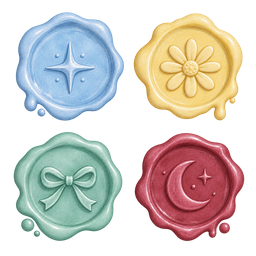
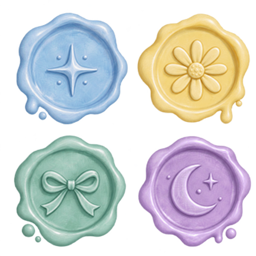
Refine focus memory seal designs

diff --git a/Lab 2/screen_clock.py b/Lab 2/screen_clock.py
@@ -35,12 +35,10 @@ buttonB.switch_to_input(pull=digitalio.Pull.UP)
 WAX_COLORS = [
     (227, 143, 157),  # pink
     (234, 164, 111),  # apricot
-    (157, 181, 139),  # sage
-    (178, 157, 196),  # lavender
     (154, 192, 224),  # sky blue star
     (238, 206, 125),  # yellow daisy
     (135, 188, 177),  # mint bow
-    (172, 91, 111),   # berry moon
+    (184, 144, 214),  # purple moon
 ]
 sessions_file = Path(__file__).with_name("focus_sessions.json")
 try:
@@ -54,11 +52,11 @@ except (FileNotFoundError, json.JSONDecodeError):
 sessions = []
 for item in saved_sessions:
     if isinstance(item, (int, float)):
-        sessions.append({"duration": float(item), "color": list(random.choice(WAX_COLORS))})
+        sessions.append({"duration": float(item), "color": list(WAX_COLORS[len(sessions) % len(WAX_COLORS)])})
     elif isinstance(item, dict) and isinstance(item.get("duration"), (int, float)):
         color = item.get("color")
         if not isinstance(color, list) or len(color) != 3:
-            color = list(random.choice(WAX_COLORS))
+            color = list(WAX_COLORS[len(sessions) % len(WAX_COLORS)])
         sessions.append({"duration": float(item["duration"]), "color": color})
 if sessions != saved_sessions:
     sessions_file.write_text(json.dumps(sessions, indent=2))
@@ -110,7 +108,7 @@ def split_stickers(filename):
     return pieces
 
 CANDLES = split_stickers("candle_sheet_journal.png")
-SEALS = split_stickers("seal_sheet_journal.png") + split_stickers("seal_sheet_extra_journal.png")
+SEALS = split_stickers("seal_sheet_journal.png")[:2] + split_stickers("seal_sheet_extra_journal.png")
 TABLE_OVERLAY = Image.open(Path(__file__).with_name("journal_table_overlay.png")).convert("RGBA")
 room_sheet = Image.open(Path(__file__).with_name("room_backgrounds_journal.jpg")).convert("RGB")
 ROOM_BACKGROUNDS = []
@@ -205,7 +203,7 @@ while True:
                         duration = max(0, now - focus_started_at)
                         sessions.append({
                             "duration": round(duration, 1),
-                            "color": list(random.choice(WAX_COLORS)),
+                            "color": list(WAX_COLORS[len(sessions) % len(WAX_COLORS)]),
                         })
                         sessions_file.write_text(json.dumps(sessions, indent=2))
                         focus_started_at = None
